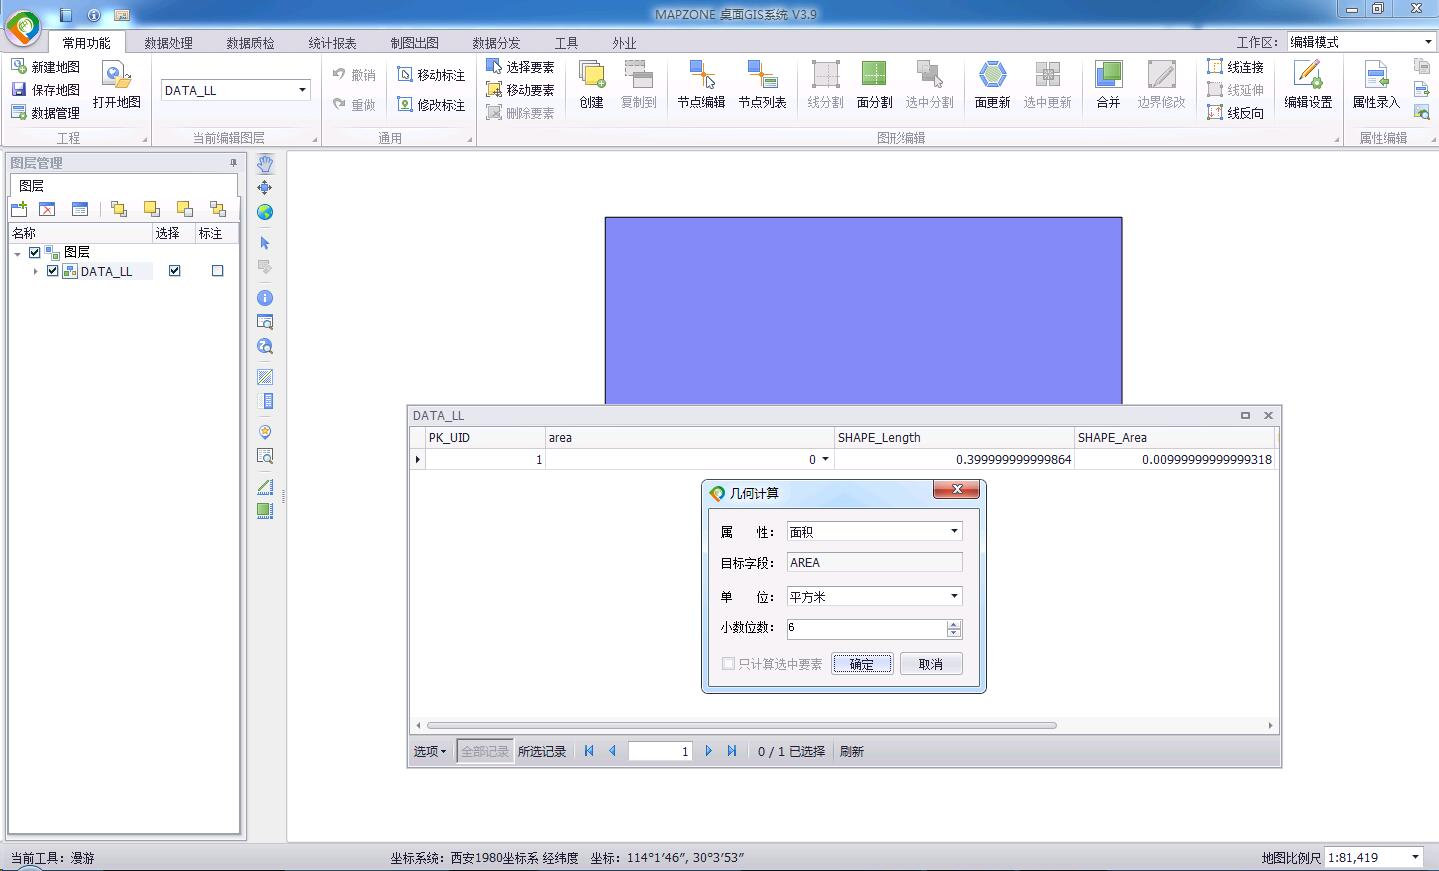
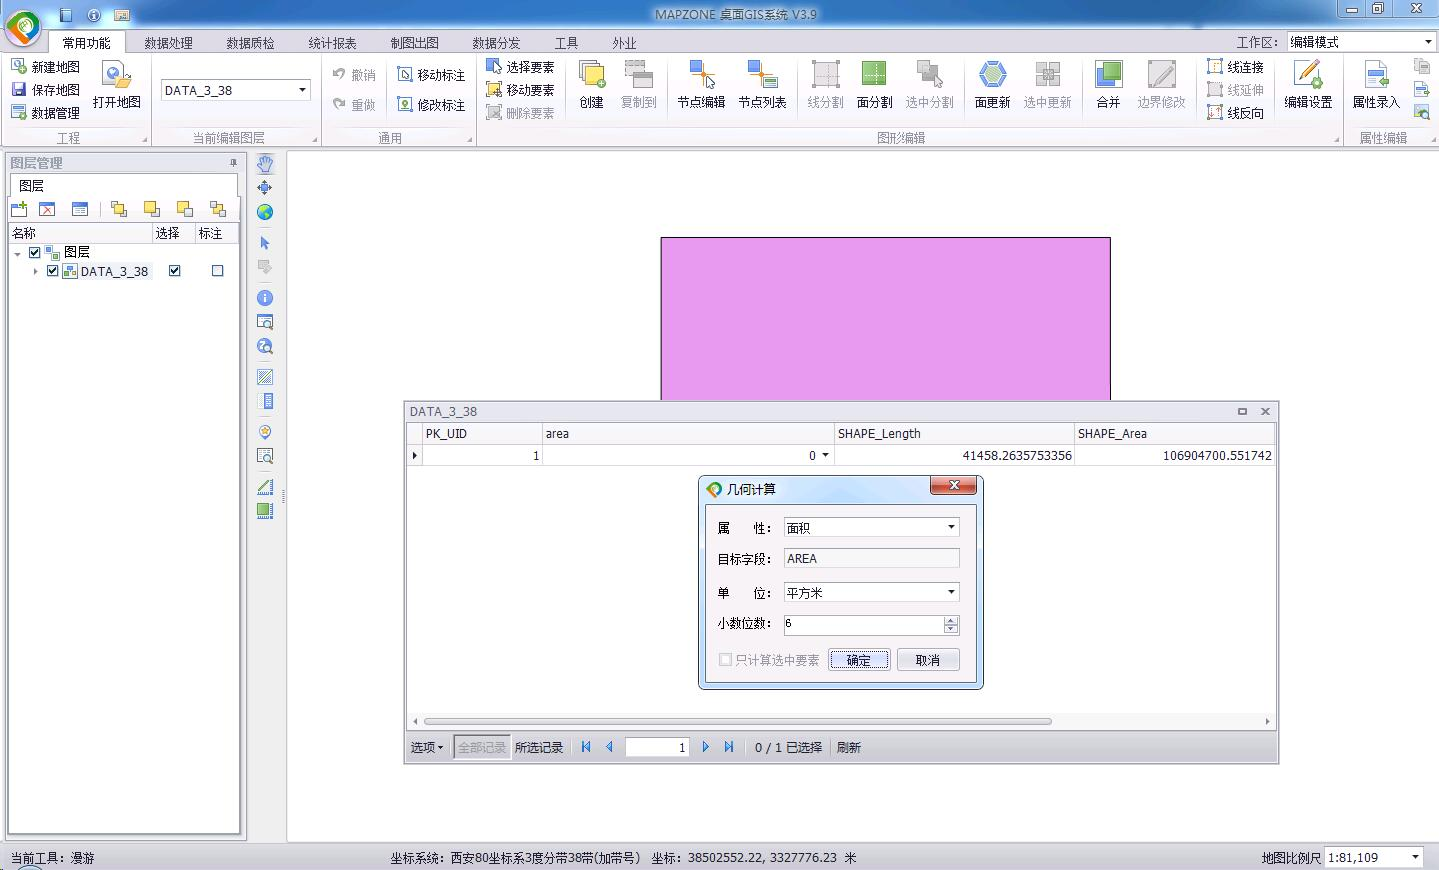
Site updated: 2019-06-12 14:05:10

diff --git a/source/_posts/areacaculate.md b/source/_posts/areacaculate.md
@@ -4,7 +4,7 @@ date: 2019-06-12 12:13:44
 tags: GIS
 ---
 
-近几年总会有用户反馈说我们软件计算出来的面积和ArcGIS(ArcMap)不一样，原因是什么。对于这个问题已经解释的嘴都快磨破了，所以想在这里详细说一下原因，如果哪里说的不正确，请指正。
+近几年总会有用户反馈说我们软件计算出来的面积和ArcGIS(ArcMap)不一样，问原因是什么。对于这个问题已经解释的嘴都快磨破了，所以想在这里详细说一下原因，如果哪里说的不正确，请指正。
 
 #### 我们所说的面积计算
 我们说的面积计算，也是常用的，基本上是在高斯投影下的计算出来的面积。高斯投影的主要特点：
@@ -21,7 +21,7 @@ tags: GIS
 位置示意如下(略夸张)：
 ![创建验证数据](areacaculate/5.png)
 
-可见这个正方形应该在3度分带38带内，而且很靠近中央经线。在6度分带20带内，但是在20带的边缘。
+可见这个正方形应该在3度分带38带内，而且很靠近中央经线。虽然在6度分带20带内，但是在20带的边缘。
 
 我将这个正方形分别投影到3度分带38带、3度分带37带、6度分带20带：
 ![数据投影](areacaculate/6.jpg)
@@ -56,11 +56,11 @@ PS:计算几何无法计算经纬度数据面积：
 
 3度分带38带是图形最接近中央经线(114度)的，也就是变形最小的。6度分带20带下的图形离中央经线(117度)小于3度，变形已经比较大了。3度分带37带下的图形离中央经线(111度)大于3度，变形比较大而且比6度分带20带的图形变形大。
 
-所以说，面积计算，比较准确的应该是在3度分带下，而且在其所在的分带内计算，使用6度分带、跨带计算都会变形比较大。
+所以说，面积计算，比较准确的应该是在3度分带下，而且在其所在的分带内计算，使用6度分带、跨带计算都会变形比较大，进而导致面积计算不准确。
 
 #### MAPZONE的面积计算逻辑
 
-根据上面的分析，MAPZONE的面积计算逻辑就很清晰了，就是将图形投影3度分带其所在的带号内进行面积计算，以保证相对准确。而且如果有跨越两个带的图形，MAPZONE会使用两个分带的边界面对图形进行分割，分割出来的部分在各自的分带内进行面积计算，最后再合并成整个的图形面积。
+根据上面的分析，MAPZONE的面积计算逻辑就很清晰了，就是将图形投影3度分带其所在的带号内进行面积计算，以保证相对准确。而且如果有跨越两个带的图形，MAPZONE会使用两个分带的边界线对图形进行分割，分割出来的部分在各自的分带内进行面积计算，最后再累加成整个的图形面积。
 ![MAPZONE计算面积结果](areacaculate/21.jpg)
 ![MAPZONE计算面积结果](areacaculate/22.jpg)
 
